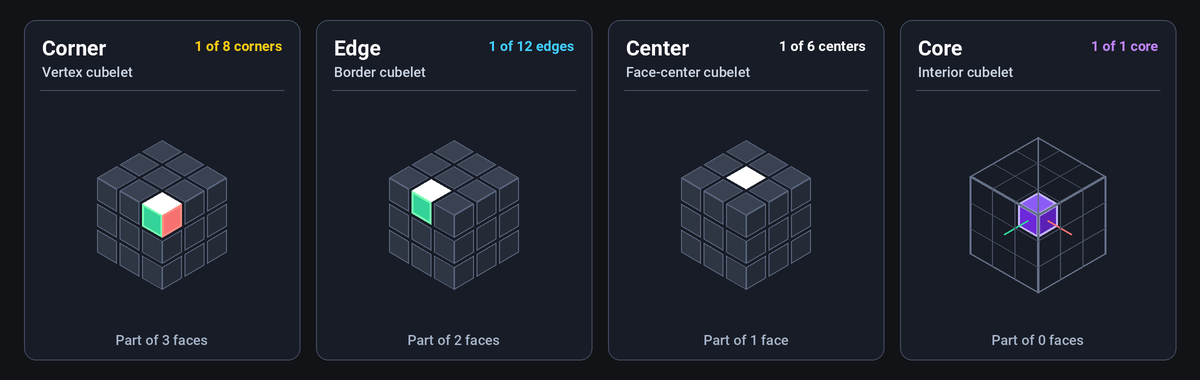
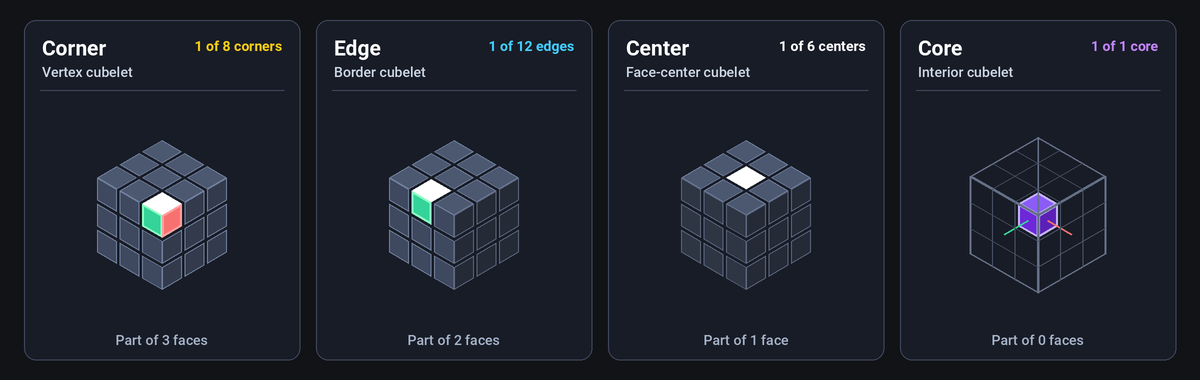
Lightly wash the active faces each cubelet belongs to in cubelet-types diagram

Changed region(s): [[0.0617, 0.3763, 0.185, 0.7526], [0.3083, 0.3763, 0.4317, 0.7526], [0.555, 0.3763, 0.6783, 0.5789]]

diff --git a/scripts/generate_cubelet_types.py b/scripts/generate_cubelet_types.py
@@ -41,6 +41,12 @@ C_DARK_FRONT = (46, 53, 67)
 C_DARK_RIGHT = (36, 42, 54)
 C_DARK_EDGE = (90, 102, 126)
 
+# Lightly highlighted face wash colors (shows which faces the cubelet belongs to)
+C_WASH_TOP = (76, 88, 112)
+C_WASH_FRONT = (62, 72, 94)
+C_WASH_RIGHT = (50, 58, 76)
+C_WASH_EDGE = (112, 128, 158)
+
 # Colors for facelets
 C_WHITE = (255, 255, 255)
 C_GREEN = (52, 211, 153)
@@ -157,16 +163,17 @@ def render_cubelet_type(draw, cx, cy, sz, mode):
             draw.line([project_pt(u, 1.5, -1.5, cx, cy, sz), project_pt(u, 1.5, 1.5, cx, cy, sz)], fill=col_grid, width=w_grid)
 
     elif mode == "center":
-        # Highlight top-center (0, 0, 1): exposes exactly 1 facelet (+Z)
+        # Highlight top-center (0, 0, 1): part of 1 face (Top face lightly washed)
         for i, j, k in cubelets:
             is_center = (i == 0 and j == 0 and k == 1)
-            fill_top = C_WHITE if is_center else C_DARK_TOP
+            fill_top = C_WHITE if is_center else C_WASH_TOP
+            edge_top = (255, 255, 255) if is_center else C_WASH_EDGE
+            w_top = 2 * SCALE if is_center else 1 * SCALE
+
             fill_front = C_DARK_FRONT
             fill_right = C_DARK_RIGHT
-            edge_top = (255, 255, 255) if is_center else C_DARK_EDGE
             edge_front = C_DARK_EDGE
             edge_right = C_DARK_EDGE
-            w_top = 2 * SCALE if is_center else 1 * SCALE
             w_front = 1 * SCALE
             w_right = 1 * SCALE
 
@@ -178,17 +185,19 @@ def render_cubelet_type(draw, cx, cy, sz, mode):
                 draw_cubelet_face(draw, i, j, k, "right", cx, cy, sz, fill_right, edge_right, w_right)
 
     elif mode == "edge":
-        # Highlight front-top edge (1, 0, 1): exposes exactly 2 facelets (+Z, +X)
+        # Highlight front-top edge (1, 0, 1): part of 2 faces (Top & Front faces lightly washed)
         for i, j, k in cubelets:
             is_edge = (i == 1 and j == 0 and k == 1)
-            fill_top = C_WHITE if is_edge else C_DARK_TOP
-            fill_front = C_GREEN if is_edge else C_DARK_FRONT
-            fill_right = C_DARK_RIGHT
-            edge_top = (255, 255, 255) if is_edge else C_DARK_EDGE
-            edge_front = (120, 255, 180) if is_edge else C_DARK_EDGE
-            edge_right = C_DARK_EDGE
+            fill_top = C_WHITE if is_edge else C_WASH_TOP
+            edge_top = (255, 255, 255) if is_edge else C_WASH_EDGE
             w_top = 2 * SCALE if is_edge else 1 * SCALE
+
+            fill_front = C_GREEN if is_edge else C_WASH_FRONT
+            edge_front = (140, 255, 195) if is_edge else C_WASH_EDGE
             w_front = 2 * SCALE if is_edge else 1 * SCALE
+
+            fill_right = C_DARK_RIGHT
+            edge_right = C_DARK_EDGE
             w_right = 1 * SCALE
 
             if k == 1:
@@ -199,17 +208,19 @@ def render_cubelet_type(draw, cx, cy, sz, mode):
                 draw_cubelet_face(draw, i, j, k, "right", cx, cy, sz, fill_right, edge_right, w_right)
 
     elif mode == "corner":
-        # Highlight front-top-right corner (1, 1, 1): exposes exactly 3 facelets (+Z, +X, +Y)
+        # Highlight front-top-right corner (1, 1, 1): part of 3 faces (Top, Front, Right faces lightly washed)
         for i, j, k in cubelets:
             is_corner = (i == 1 and j == 1 and k == 1)
-            fill_top = C_WHITE if is_corner else C_DARK_TOP
-            fill_front = C_GREEN if is_corner else C_DARK_FRONT
-            fill_right = C_RED if is_corner else C_DARK_RIGHT
-            edge_top = (255, 255, 255) if is_corner else C_DARK_EDGE
-            edge_front = (120, 255, 180) if is_corner else C_DARK_EDGE
-            edge_right = (255, 140, 130) if is_corner else C_DARK_EDGE
+            fill_top = C_WHITE if is_corner else C_WASH_TOP
+            edge_top = (255, 255, 255) if is_corner else C_WASH_EDGE
             w_top = 2 * SCALE if is_corner else 1 * SCALE
+
+            fill_front = C_GREEN if is_corner else C_WASH_FRONT
+            edge_front = (140, 255, 195) if is_corner else C_WASH_EDGE
             w_front = 2 * SCALE if is_corner else 1 * SCALE
+
+            fill_right = C_RED if is_corner else C_WASH_RIGHT
+            edge_right = (255, 160, 160) if is_corner else C_WASH_EDGE
             w_right = 2 * SCALE if is_corner else 1 * SCALE
 
             if k == 1:
